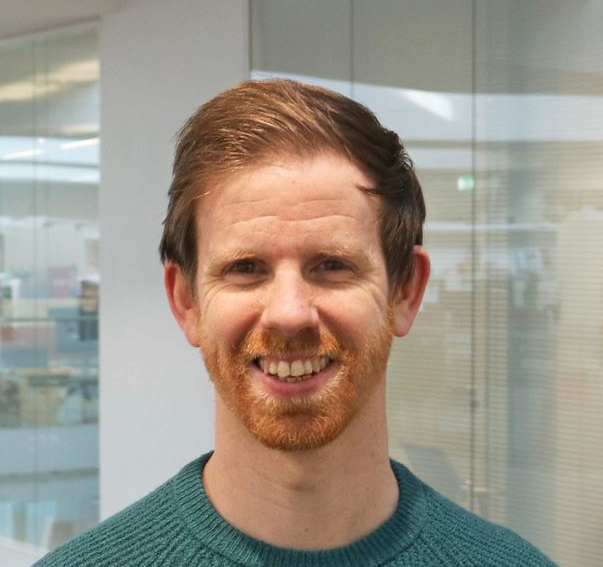
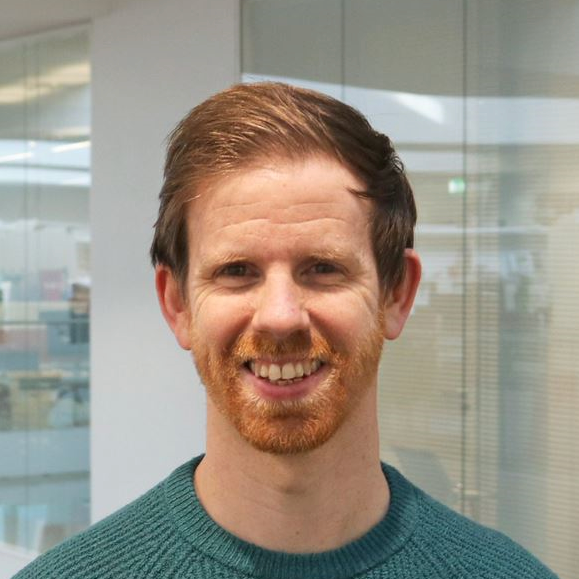
add azhar

diff --git a/_instructors/Khandekar_Azhar.md b/_instructors/Khandekar_Azhar.md
@@ -1,0 +1,10 @@
+---
+picture: azhar_khandekar.png
+name: Azhar Khandekar
+organization: NCI - ITEB
+position: Ph.D. Student
+profile_link: https://dceg.cancer.gov/fellowship-training/fellowship-experience/meet-fellows/iteb/khandekar-azhar
+profile_type: NCI
+---
+
+Azhar is working on his dissertation research in bioinformatics and systems biology under the supervision of Maria Teresa Landi, M.D., Ph.D., and Ludmil Alexandrov, Ph.D., at the University of California San Diego. He is interested in integrating large-scale omics datasets to ultimately elucidate the biological mechanisms that drive cancer formation and progression, with a particular focus on structural variants, copy number alterations and extrachromosomal DNA.
